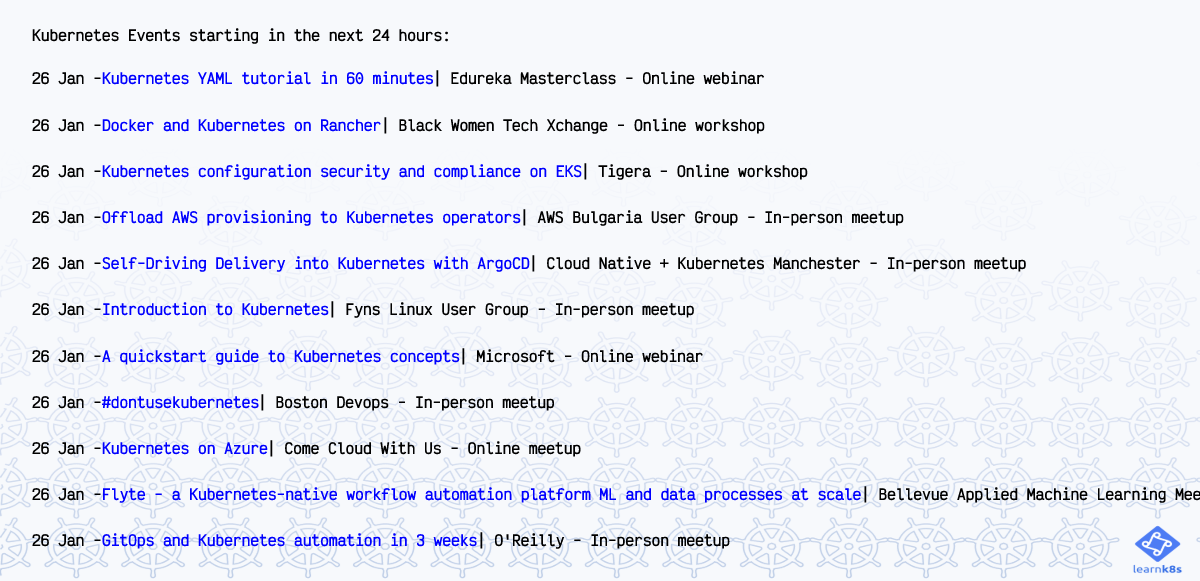
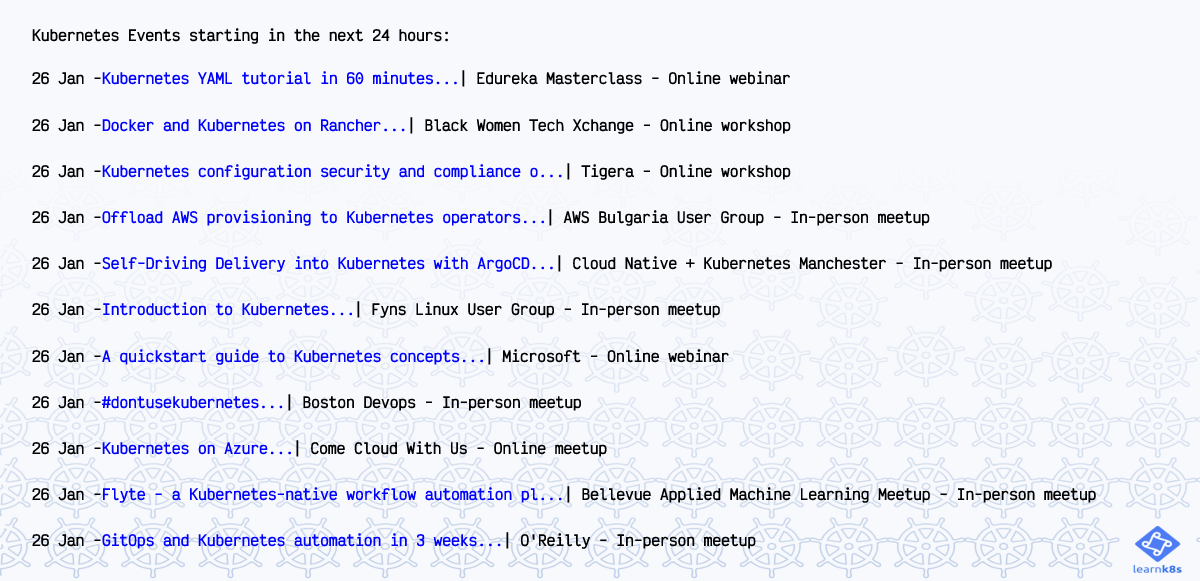
Trucate long title text using slice

diff --git a/src/main.tsx b/src/main.tsx
@@ -106,8 +106,8 @@ const template = (
         <h2 key={title} style={{ display: "flex", wordBreak: "break-all" }}>
           {date} -{" "}
           <a href="#" style={{ color: "blue" }}>
-            {title}
-          </a>{" "}
+            {title.slice(0, 50)}...
+          </a>
           | {host} - {type}
         </h2>
       ))}
